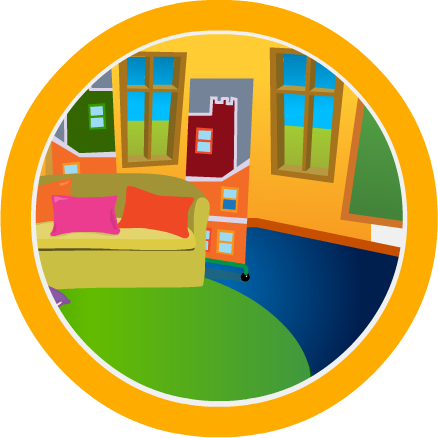
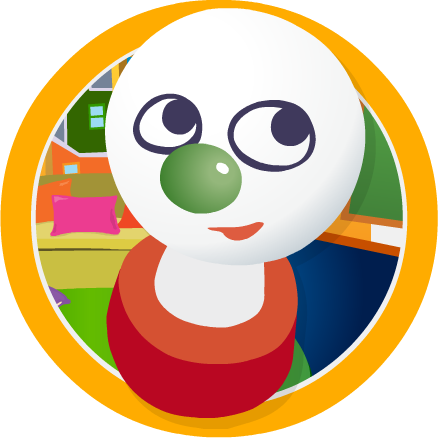
yleloader

diff --git a/yleloader/yleloader.js b/yleloader/yleloader.js
@@ -39,13 +39,6 @@ game.Loader.inject({
         if(!game.ua.mobile || !game.Loader.touchToStart) return this.end();
 
         this.text.visible = this.symbol.visible = false;
-        
-        var stampla = new game.Sprite(game.system.width / 2 + 90, game.system.height / 2 + 50, 'media/yleloader/stampla.png', {
-            anchor: {x:0.5, y:1.0},
-            scale: {x:0, y:0},
-            rotation: -1
-        });
-        game.system.stage.addChild(stampla);
 
         var sprite = new game.Sprite(game.system.width/2, game.system.height/2, 'media/yleloader/badge.png', {
             anchor: {x:0.5, y:0.5},
@@ -53,7 +46,7 @@ game.Loader.inject({
         });
         game.system.stage.addChild(sprite);
 
-        var button = new game.Sprite(sprite.width/2, sprite.height/2, 'media/yleloader/button.png', {
+        var button = new game.Sprite(sprite.width/2, sprite.height/2 + 200, 'media/yleloader/button.png', {
             anchor: {x:0.5, y:0.5},
             interactive: true,
             buttonMode: true,
@@ -72,10 +65,6 @@ game.Loader.inject({
         this.tweens.push(tween);
 
         tween = new game.Tween(this.logo.scale, {x:0, y:0}, 0.3, {easing: game.Tween.Easing.Back.In});
-        tween.start();
-        this.tweens.push(tween);
-
-        tween = new game.Tween(stampla, {scale: {x:1.5, y:1.5}, rotation: 0.5}, 0.5, {delay: 0.5, easing: game.Tween.Easing.Back.Out});
         tween.start();
         this.tweens.push(tween);
     },
